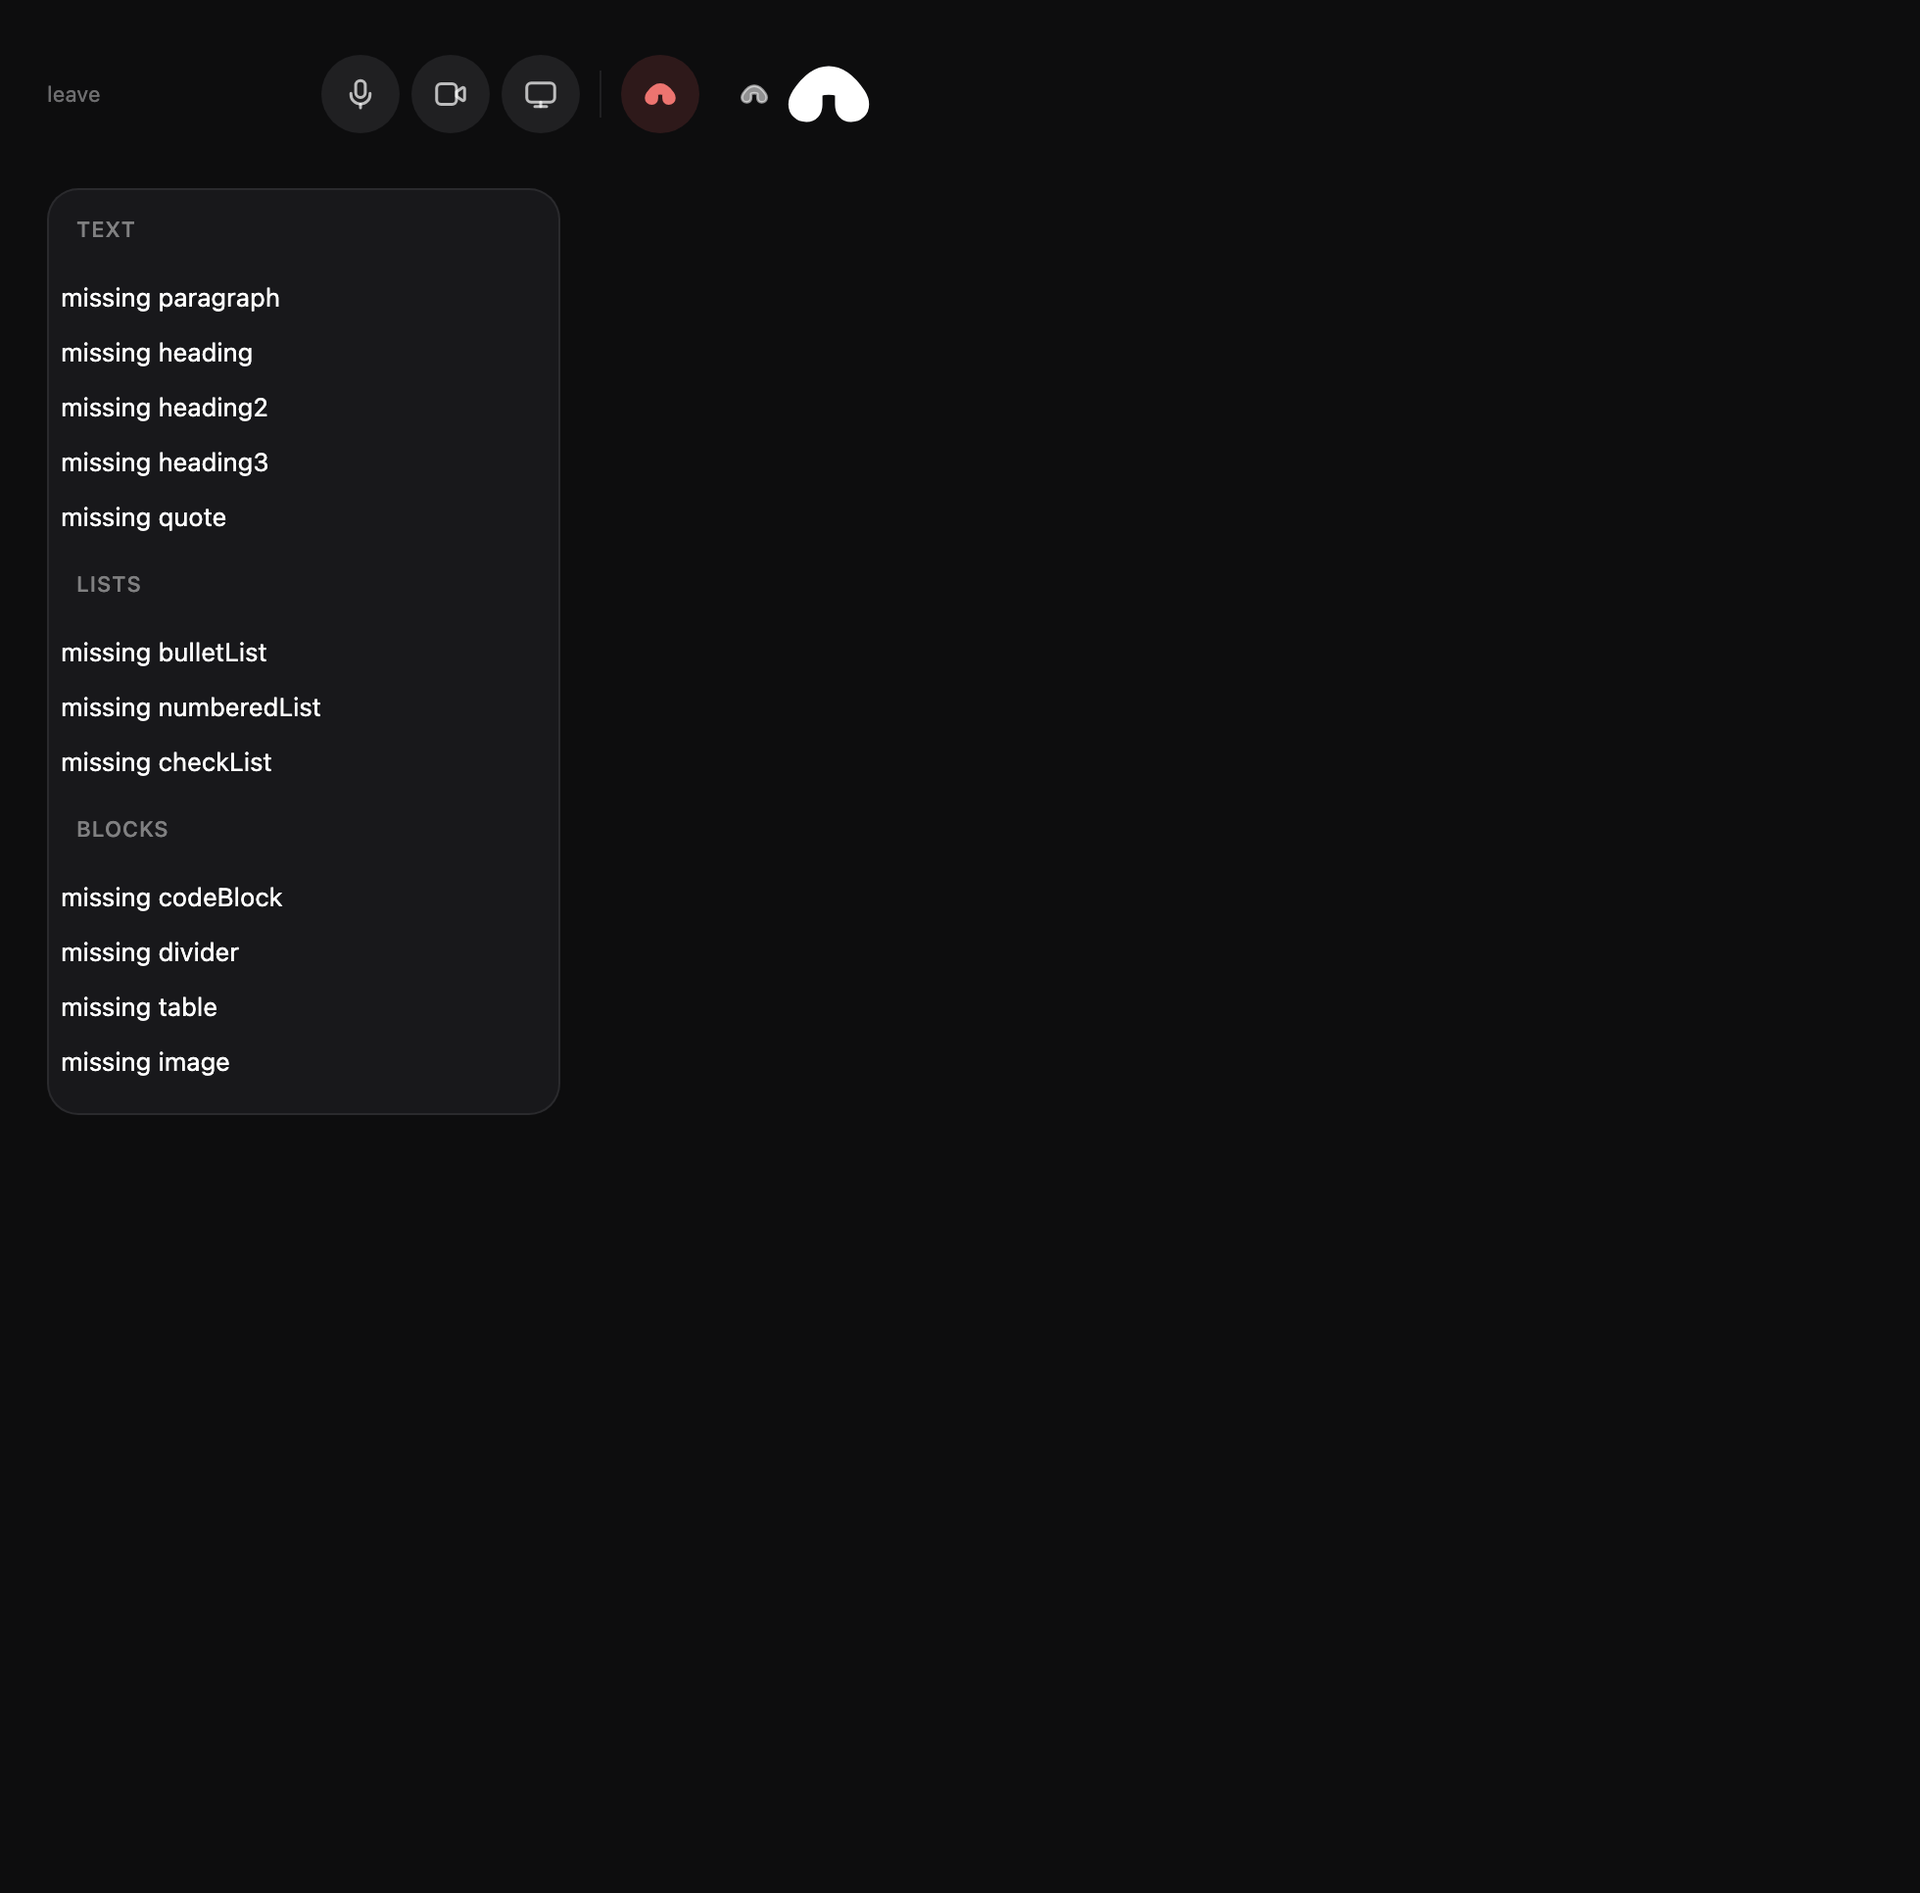
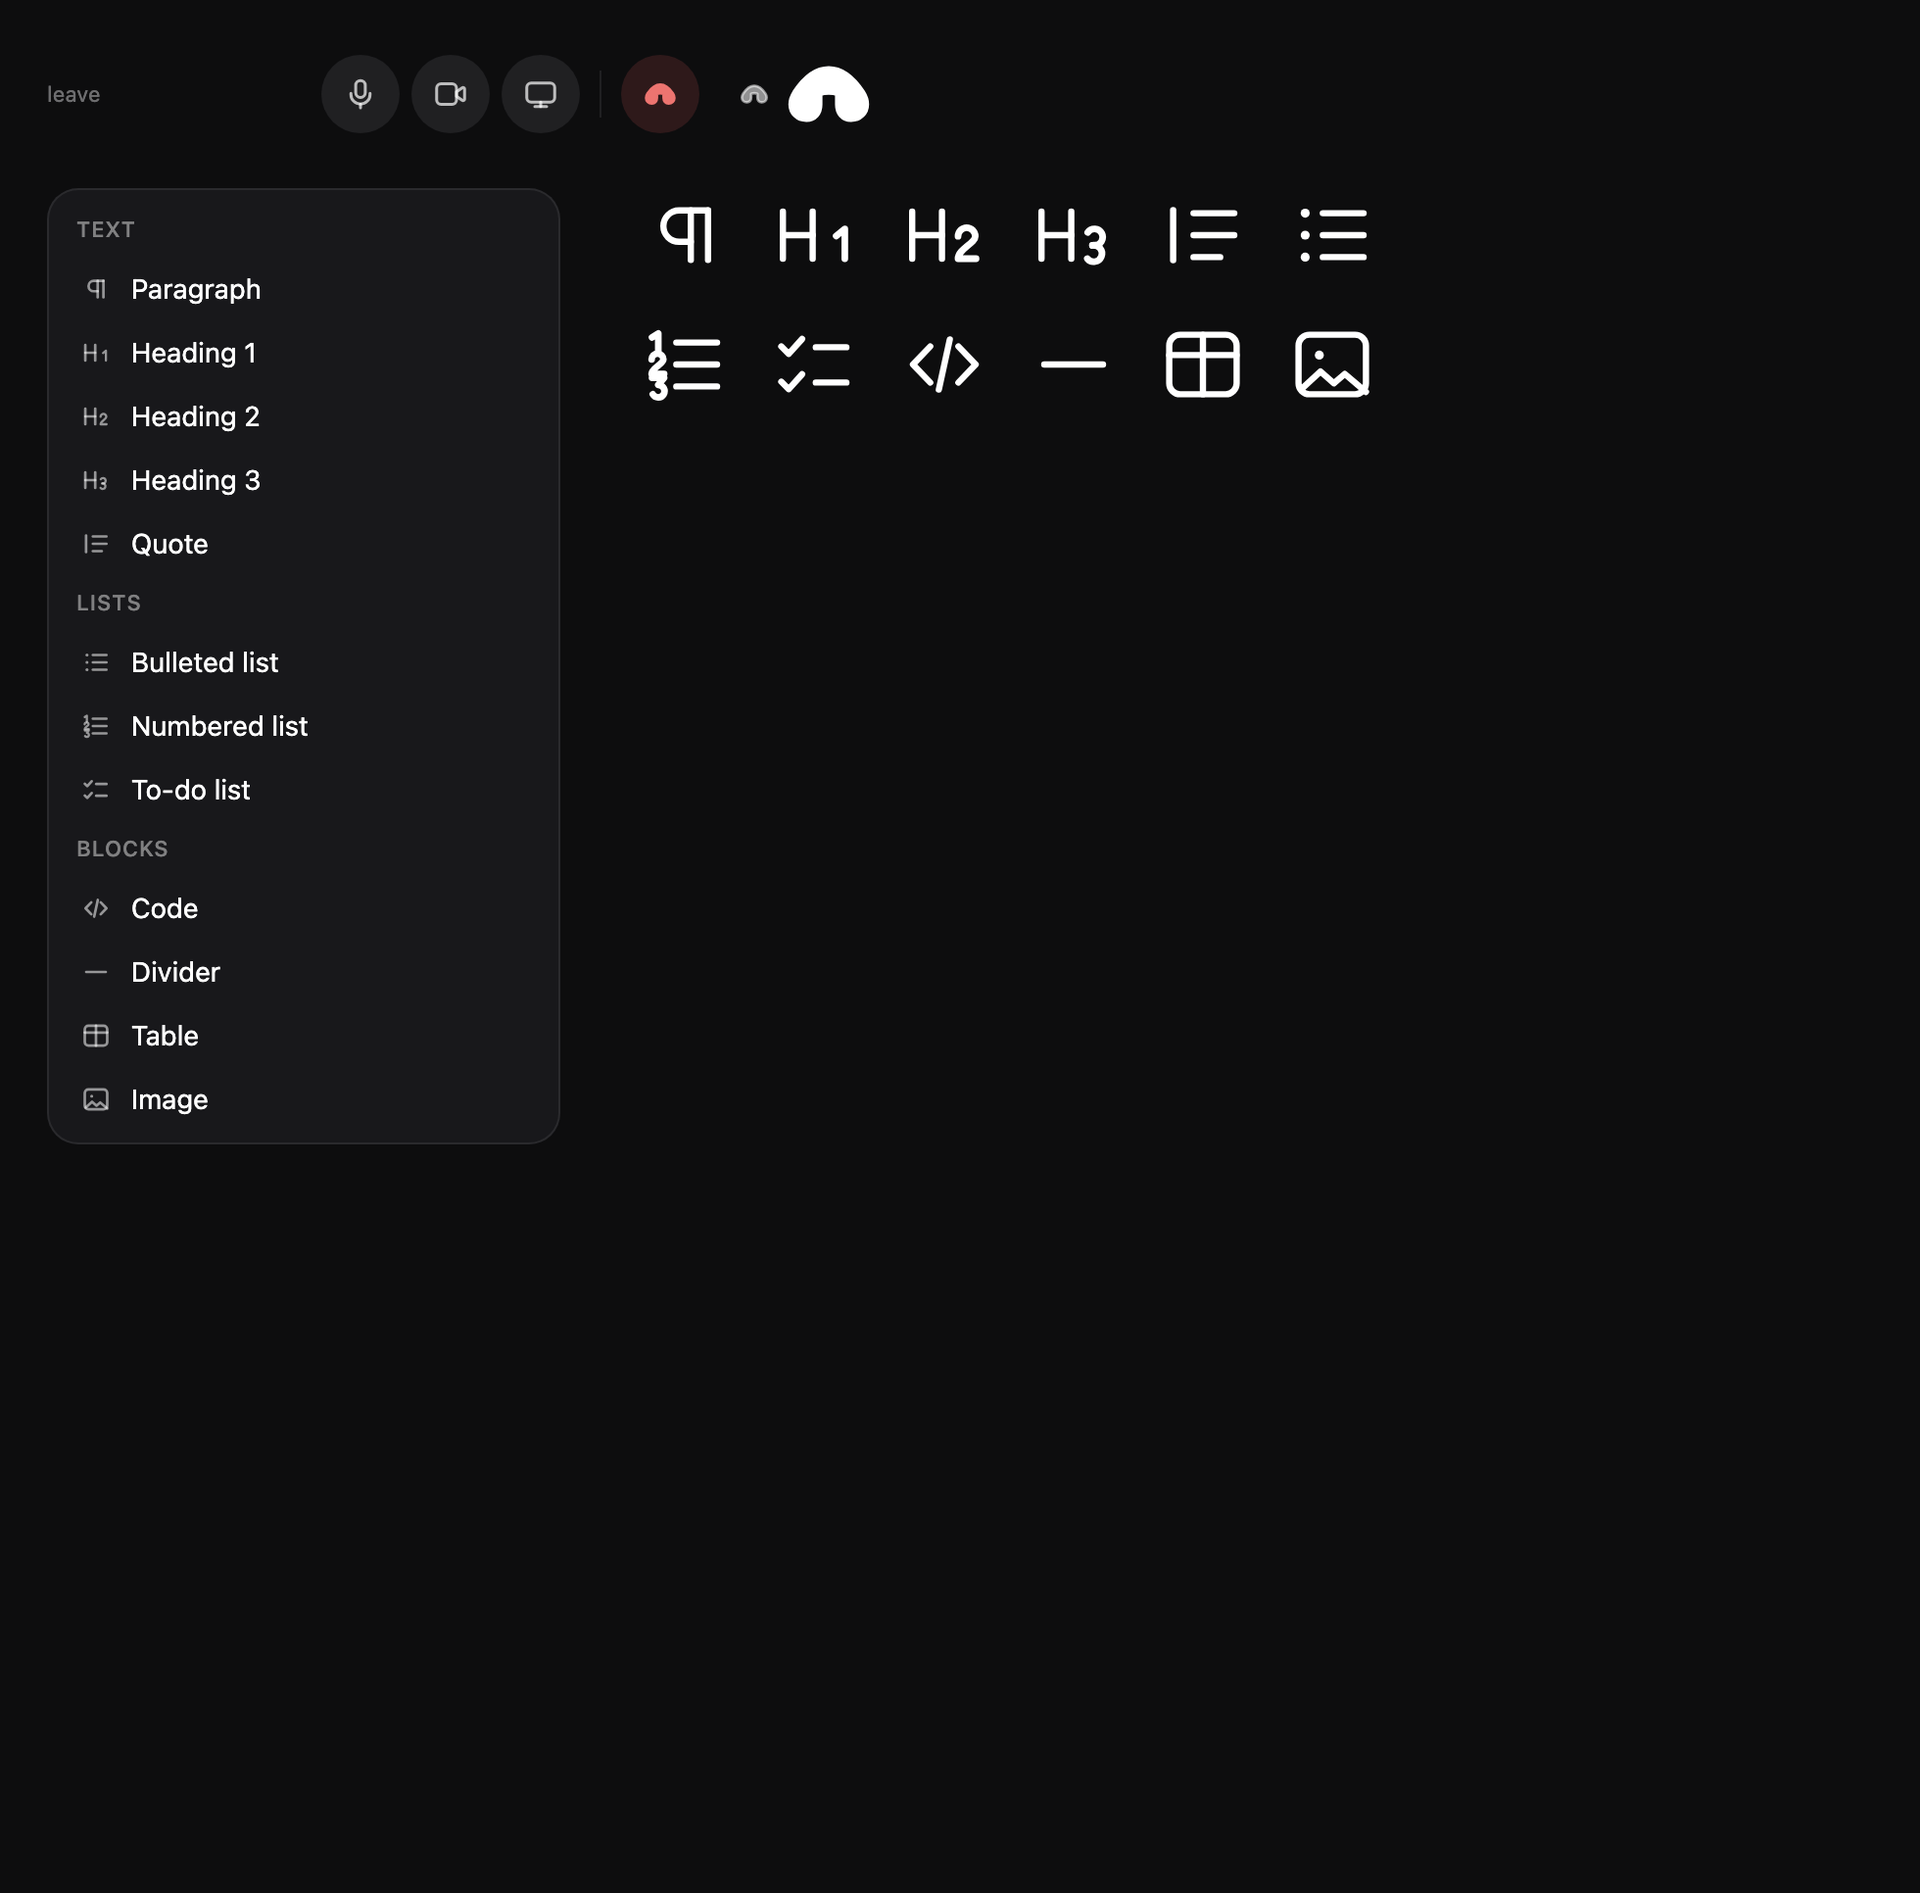
crew sync

diff --git a/scripts/.probe.tsx b/scripts/.probe.tsx
@@ -38,13 +38,13 @@ function Bar() {
 }
 
 const GROUPS: [string, string[]][] = [
-  ['TEXT', ['paragraph', 'heading', 'heading2', 'heading3', 'quote']],
-  ['LISTS', ['bulletList', 'numberedList', 'checkList']],
-  ['BLOCKS', ['codeBlock', 'divider', 'table', 'image']]
+  ['TEXT', ['Paragraph', 'Heading 1', 'Heading 2', 'Heading 3', 'Quote']],
+  ['LISTS', ['Bulleted list', 'Numbered list', 'To-do list']],
+  ['BLOCKS', ['Code', 'Divider', 'Table', 'Image']]
 ]
 
 function Menu() {
-  const byType = new Map(DOC_BLOCKS.map(block => [block.type, block]))
+  const byType = new Map(DOC_BLOCKS.map(block => [block.title, block]))
   return (
     <div
       style={{
@@ -103,7 +103,7 @@ function Menu() {
 }
 
 function Big() {
-  const byType = new Map(DOC_BLOCKS.map(block => [block.type, block]))
+  const byType = new Map(DOC_BLOCKS.map(block => [block.title, block]))
   return (
     <div style={{ display: 'flex', flexWrap: 'wrap', gap: 18, width: 420 }}>
       {GROUPS.flatMap(([, types]) => types).map(type => {
